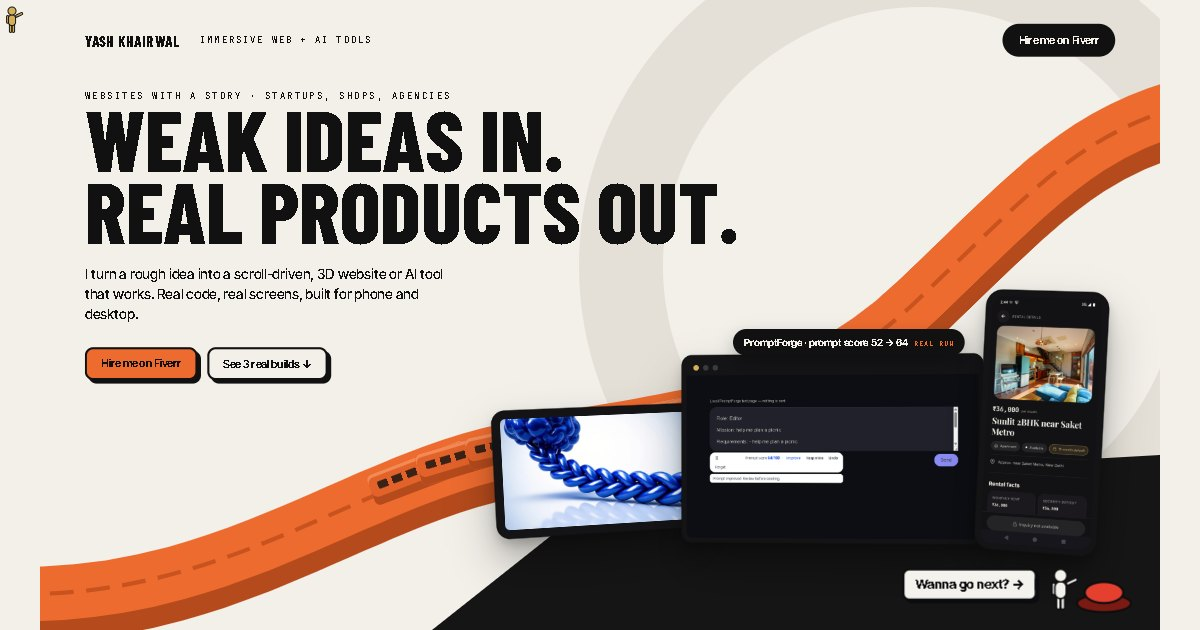
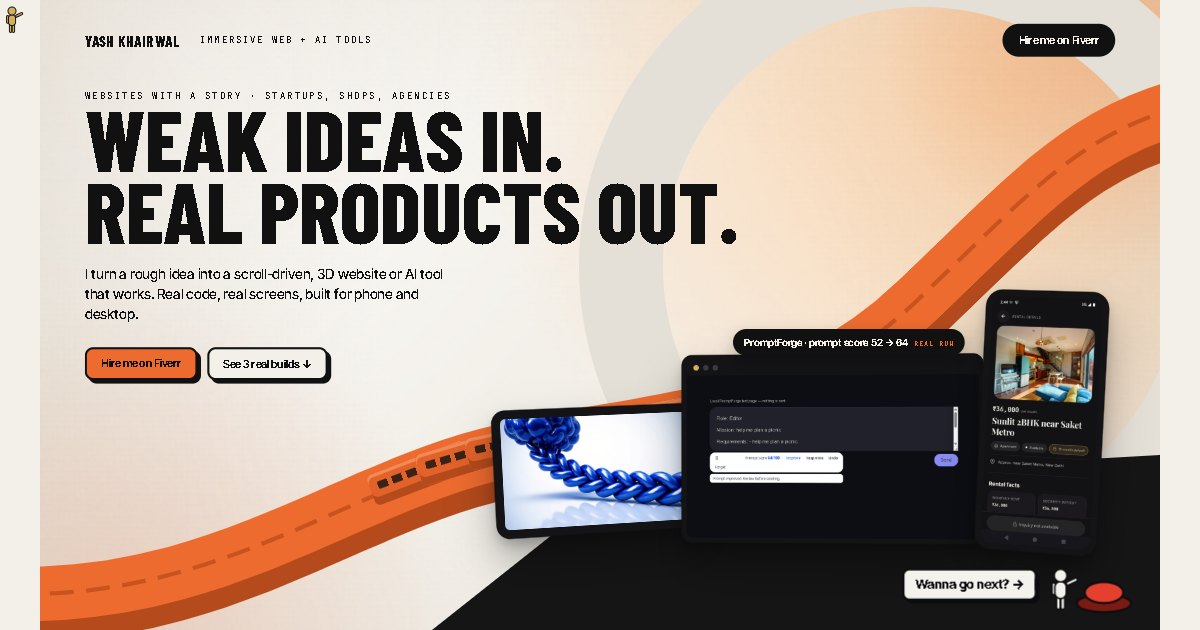
Packages with prices, calm-site line, lighter Hire ribbon, lit backgrounds per chapter
- Hire: three Fiverr package cards with price, delivery and revisions
- Hire ribbon lowered so it no longer crosses the copy
- Each chapter gets a soft lit background: accent glow, light streaks, darker edges, painted once at load

diff --git a/index.html b/index.html
@@ -344,6 +344,16 @@ html:not(.m) #p1 .nextb{right:auto;left:64px;bottom:40px}html:not(.m) #p1 .nextb
 /* Motion on/off: a visitor can make the whole site calm in one tap */
 #motion{position:fixed;left:14px;bottom:10px;z-index:130;padding:7px 11px;border-radius:999px;border:1.5px solid rgba(255,255,255,.75);background:rgba(11,12,15,.72);color:#F4F2EC;font:500 11px/1 'JM',monospace;letter-spacing:.12em;text-transform:uppercase;cursor:pointer}
 .calm .stage,.calm .stage *,.calm .stage *::before,.calm .stage *::after{animation-play-state:paused!important}
+/* Hire: the real packages, so price, delivery and revisions are visible before the click */
+.pkgs{position:absolute;left:820px;top:150px;width:720px;z-index:20;display:grid;gap:14px}
+.pkh{font:500 12px/1 'JM',monospace;letter-spacing:.16em;text-transform:uppercase;color:var(--on)}
+.pkc{display:block;padding:18px 22px;border-radius:16px;background:#FFF8EA;color:#1A0C0E;text-decoration:none;box-shadow:0 0 0 2px #0B0C0F,0 18px 36px rgba(0,0,0,.18);transition:translate .2s cubic-bezier(.23,1,.32,1)}
+.pkc:hover{translate:0 -3px}
+.pkt{display:flex;justify-content:space-between;align-items:baseline;gap:12px}.pkt b{font:800 30px/1 'BC',sans-serif;text-transform:uppercase}.pp{font:800 30px/1 'BC',sans-serif}
+.pkc p{margin:8px 0 12px;font:500 15px/1.4 'IT',sans-serif}
+.pkm{display:flex;gap:8px}.pkm span{font:600 12.5px/1 'IT',sans-serif;padding:7px 10px;border-radius:999px;background:#0B0C0F;color:#F4F2EC}
+.m .pkgs{left:32px;top:auto;bottom:150px;width:536px;gap:10px}.m .pkc{padding:12px 16px}.m .pkt b,.m .pp{font-size:22px}.m .pkc p{font-size:13px;margin:5px 0 8px}.m .pkm span{font-size:11.5px;padding:6px 8px}
+.shade{position:absolute;left:0;top:0;width:100%;height:100%;z-index:0;pointer-events:none}   /* tonal background shades */
 .nojs{max-width:760px;margin:0 auto;padding:64px 24px 96px;color:#F4F2EC;font:500 18px/1.6 'IT',sans-serif}
 .nojs h1,.nojs h2{white-space:normal}.nojs h1{margin:16px 0 0;font:800 clamp(52px,11vw,104px)/.9 'BC',sans-serif;text-transform:uppercase}
 .nojs h2{margin:56px 0 0;font:800 40px/1 'BC',sans-serif;text-transform:uppercase}.nojs h3{margin:28px 0 0;font:700 20px/1.3 'IT',sans-serif}
@@ -637,7 +647,13 @@ await YIELD();
 /* ======================= 06 Hire: the three builds again, small, beside the offer ======================= */
 const st6 = document.querySelector('#p6 .stage');
 { const w = document.createElement('span'); w.className = 'crowd'; w.setAttribute('aria-hidden', 'true'); document.querySelector('#p6 .hirewrap').appendChild(w); [[4, '#0B0C0F', '#F4F2EC'], [54, '#D4AF5A', '#0B0C0F'], [104, '#0B0C0F', '#F4F2EC']].forEach(([x, fill, line]) => { const g = guy(w, { x, act: 'cheer', fill, line }); g.classList.add('cheerer'); }); }
-if (!MOB) { device(st6, { src: SCR.pfF, kind: 'win', ar: .42, pos: '0 0', cx: 1210, cy: 400, w: 560, rz: -1, ry: -8, z: 4, alt: '' }); device(st6, { src: SCR.snL, kind: 'phone', cx: 1430, cy: 590, w: 170, rz: 4, ry: -10, z: 6, alt: '' }); device(st6, { src: SCR.doB, kind: 'tab', cx: 990, cy: 650, w: 270, rz: -4, ry: 10, z: 5, alt: '' }); }
+// packages, read from the live Fiverr gig on 15 Nov 2026 (prices as Fiverr showed them in INR; Fiverr shows each buyer their own currency)
+{ const PK = [['Starter Portfolio', 'Clean one-page portfolio in Next.js, mobile-friendly, deployed', '₹7,916', '4-day delivery', '1 revision'],
+    ['Pro Portfolio', '4-page portfolio with projects, contact form, fast, hosted', '₹15,832', '6-day delivery', '2 revisions'],
+    ['Portfolio + AI', '6-page portfolio with AI chat about you, blog, full setup', '₹19,790', '10-day delivery', '3 revisions']];
+  const box = document.createElement('div'); box.className = 'pkgs'; box.innerHTML = '<div class="pkh">Packages on Fiverr · prices shown in your currency there</div>' +
+    PK.map(([n, d, p, del, rev]) => `<a class="pkc" data-hire href="${FIVERR}" target="_blank" rel="noopener noreferrer"><div class="pkt"><b>${n}</b><span class="pp">${p}</span></div><p>${d}</p><div class="pkm"><span>${del}</span><span>${rev}</span></div></a>`).join('');
+  st6.appendChild(box); }
 await YIELD();
 
 /* ======================= the journey ======================= */
@@ -655,12 +671,35 @@ const RIB = {
   p1: ['M-60 850 C 260 880, 560 800, 720 640 S 1100 380, 1660 330', 'M-40 1250 C 160 1190, 420 1270, 640 1160'],
   p3: ['M-60 890 C 400 868, 800 906, 1200 880 S 1500 868, 1660 886', 'M-40 1284 C 200 1258, 420 1296, 640 1266'],
   p5: ['M-60 860 C 380 800, 700 900, 1000 850 S 1400 800, 1660 870', 'M-40 1262 C 200 1212, 420 1290, 640 1240'],
-  p6: ['M-60 872 C 260 836, 520 904, 820 866 S 1300 720, 1660 790', 'M-40 1190 C 200 1130, 420 1230, 640 1150'] };
+  p6: ['M-60 912 C 260 896, 520 918, 820 896 S 1300 780, 1660 830', 'M-40 1190 C 200 1130, 420 1230, 640 1150'] };
 css(`@keyframes rwalk{from{offset-distance:0%}to{offset-distance:100%}}`);
 Object.entries(RIB).forEach(([id, d], n) => { const st = document.querySelector('#' + id + ' .stage'), sv = document.createElementNS(NS, 'svg'), pth = document.createElementNS(NS, 'path'), dd = M(d[0], d[1]);
   sv.setAttribute('class', 'full ribbon'); sv.setAttribute('viewBox', `0 0 ${SW} ${SH}`); sv.dataset.depth = '0'; sv.setAttribute('aria-hidden', 'true'); pth.setAttribute('d', dd); pth.setAttribute('stroke-width', M(30, 24)); sv.appendChild(pth); st.insertBefore(sv, st.firstChild);
   });
 const RIBC = {}; const RIBL = k => { if (k in RIBC) return RIBC[k]; const p = PAGES[k].querySelector('.ribbon path'); if (!p) return (RIBC[k] = null); const L = p.getTotalLength(); p.style.strokeDasharray = L; return (RIBC[k] = { p, L }); };
+// background light, after the reference reels: a base tone, one accent light falling in from a side, soft light streaks, darker edges.
+// Painted once per chapter at quarter size with radial gradients (no per-frame cost). Ops: r = glow [x, y, radius, colour, alpha], s = streak [path, width, colour, alpha], v = edge shade [colour, alpha]
+{ const SH = {
+    p0: [['r', 1380, 120, 760, '#FFD2A6', .9], ['r', 1540, 40, 340, '#FF9F63', .55], ['r', 220, 120, 620, '#FFFFFF', .75], ['r', 120, 880, 460, '#F4C3B0', .55], ['v', '#B9A78E', .35]],
+    p1: [['r', 1250, 430, 760, '#1F3A72', .95], ['r', 1440, 170, 400, '#3D6CF0', .5], ['r', 130, 880, 560, '#B8693A', .45], ['r', 640, 60, 420, '#8FA6C8', .2],
+         ['s', 'M-80 760 C 380 560, 900 820, 1700 470', 10, '#BFD0F0', .4], ['s', 'M-80 820 C 420 640, 960 880, 1700 560', 5, '#8FA6C8', .3], ['s', 'M-80 880 C 460 760, 1000 930, 1700 650', 7, '#E09A62', .35], ['v', '#03060D', .65]],
+    p2: [['r', 1380, 170, 600, '#F7AE96', .65], ['r', 1260, 820, 640, '#2C6B5F', .25], ['r', 220, 150, 540, '#FFFFFF', .75], ['r', 90, 880, 460, '#A8D1C2', .45], ['v', '#C9BCA5', .32]],
+    p3: [['r', 1150, 380, 680, '#3E332C', .95], ['r', 1240, 540, 400, '#D08A5E', .42], ['r', 1480, 120, 260, '#E7B48A', .2], ['r', 240, 880, 420, '#8A3322', .55], ['r', 300, 140, 420, '#4A3E36', .5],
+         ['s', 'M-80 860 C 360 760, 800 900, 1700 700', 6, '#D08A5E', .3], ['v', '#000000', .6]],
+    p4: [['r', 820, 600, 820, '#F6A465', .42], ['r', 1460, 90, 460, '#FFE6C8', .7], ['r', 180, 880, 540, '#2E4632', .28], ['r', 160, 140, 420, '#FFFFFF', .55], ['v', '#6E7F62', .28]],
+    p6: [['r', 920, 400, 760, '#FFF1C6', .65], ['r', 1420, 140, 400, '#FFFFFF', .4], ['r', 120, 880, 520, '#8C6420', .4], ['r', 1560, 860, 460, '#A8761F', .5], ['v', '#7A5414', .38]] };
+  const H_ = MOB ? 1300 : 900, mx = x => MOB ? x * .375 : x, my = y => MOB ? y * 1.44 : y, mr = r => MOB ? r * .6 : r;
+  const rgba = (h, a) => `rgba(${parseInt(h.slice(1, 3), 16)},${parseInt(h.slice(3, 5), 16)},${parseInt(h.slice(5, 7), 16)},${a})`;
+  Object.entries(SH).forEach(([id, ops]) => { const st = document.querySelector('#' + id + ' .stage'), cv = document.createElement('canvas'), g = cv.getContext('2d'), W = SW / 4, H = H_ / 4;
+    cv.className = 'shade'; cv.setAttribute('aria-hidden', 'true'); cv.dataset.depth = '0'; cv.width = W; cv.height = H;
+    ops.forEach(o => {
+      if (o[0] === 'r') { const [, x, y, r, c, a] = o, X = mx(x) / 4, Y = my(y) / 4, R = mr(r) / 4, gr = g.createRadialGradient(X, Y, 0, X, Y, R);
+        gr.addColorStop(0, rgba(c, a)); gr.addColorStop(.45, rgba(c, a * .55)); gr.addColorStop(1, rgba(c, 0)); g.filter = 'none'; g.fillStyle = gr; g.fillRect(0, 0, W, H); }
+      else if (o[0] === 's') { const [, d, w, c, a] = o, p = new Path2D(d.replace(/-?\d+(\.\d+)? -?\d+(\.\d+)?/g, m => { const [x, y] = m.split(' ').map(Number); return (mx(x) / 4).toFixed(1) + ' ' + (my(y) / 4).toFixed(1); }));
+        g.filter = 'blur(3px)'; g.strokeStyle = rgba(c, a); g.lineWidth = w / 4 * (MOB ? .8 : 1) + 1; g.lineCap = 'round'; g.stroke(p); }
+      else { const [, c, a] = o, gr = g.createRadialGradient(W / 2, H / 2, Math.min(W, H) * .35, W / 2, H / 2, Math.hypot(W, H) * .58);
+        gr.addColorStop(0, rgba(c, 0)); gr.addColorStop(1, rgba(c, a)); g.filter = 'none'; g.fillStyle = gr; g.fillRect(0, 0, W, H); } });
+    st.insertBefore(cv, st.firstChild); }); }
 document.querySelectorAll('.dev .s').forEach(sc => { const c = document.createElement('i'); c.className = 'boot'; sc.appendChild(c); });
 // "Wanna go next?": on every chapter but the last, a little guy stands at a red arcade button; pressing it carries you on
 PAGES.forEach((pg, k) => { if (k >= NP - 1) return; const st = pg.querySelector('.stage'), b = document.createElement('button');
